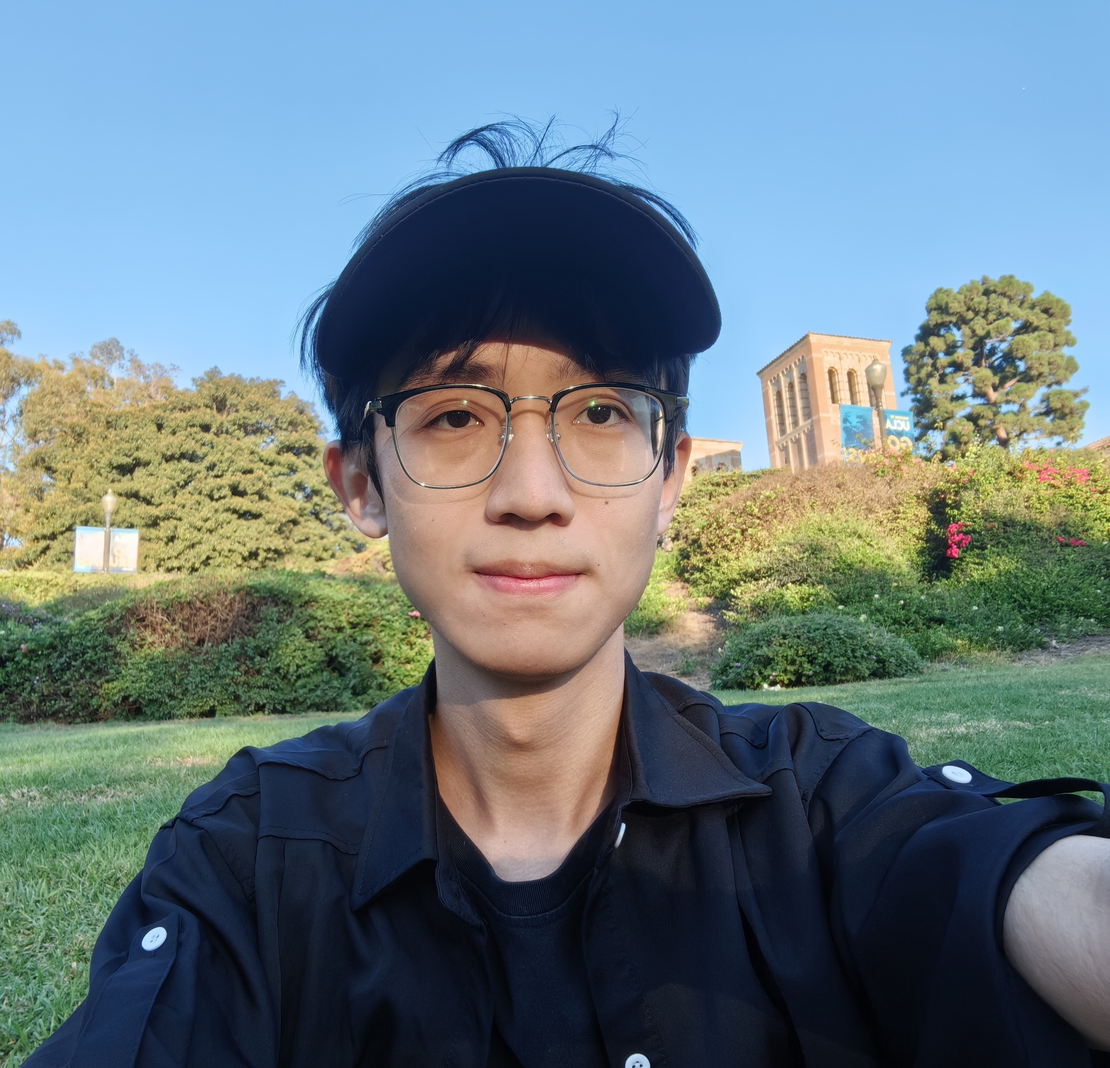
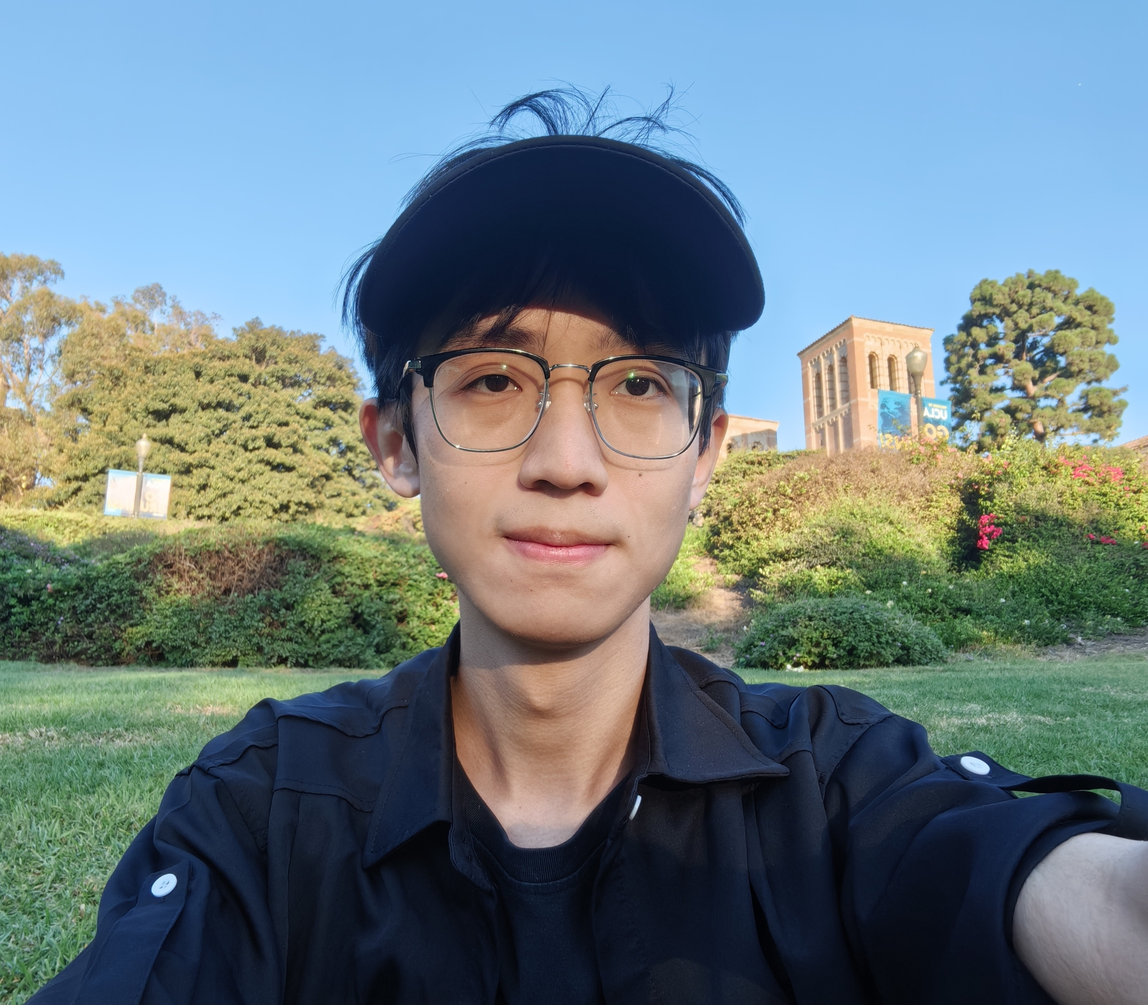
new

diff --git a/index.html b/index.html
@@ -151,8 +151,8 @@
                   </p>
                 </td>
                 <td style="padding:1%;width:40%;max-width:40%;vertical-align:middle">
-                  <a href="file/img/myphoto4.png"><img style="width:75%;max-width:75%" alt="profile photo"
-                      src="file/img/myphoto4.png" class="hoverZoomLink"></a>
+                  <a href="file/img/myphoto.png"><img style="width:75%;max-width:75%" alt="profile photo"
+                      src="file/img/myphoto.png" class="hoverZoomLink"></a>
                 </td>
               </tr>
             </tbody>
@@ -229,7 +229,7 @@
                 <!-- <br>
                 <em><strong>arXiv preprint</strong></em> -->
                 <br>
-                <a href="">[paper]</a> | 
+                <a href="https://arxiv.org/abs/2509.25143">[paper]</a> | 
                 <a href="https://github.com/Levi-ZJY/TemMed-Bench" target="_blank">[code]</a> |
                 <a href="https://temmedbench.github.io/" target="_blank">[project page]</a> |
                 <a href="https://huggingface.co/datasets/uclanlp/TemMed-Bench" target="_blank">[hugging face data]</a>
